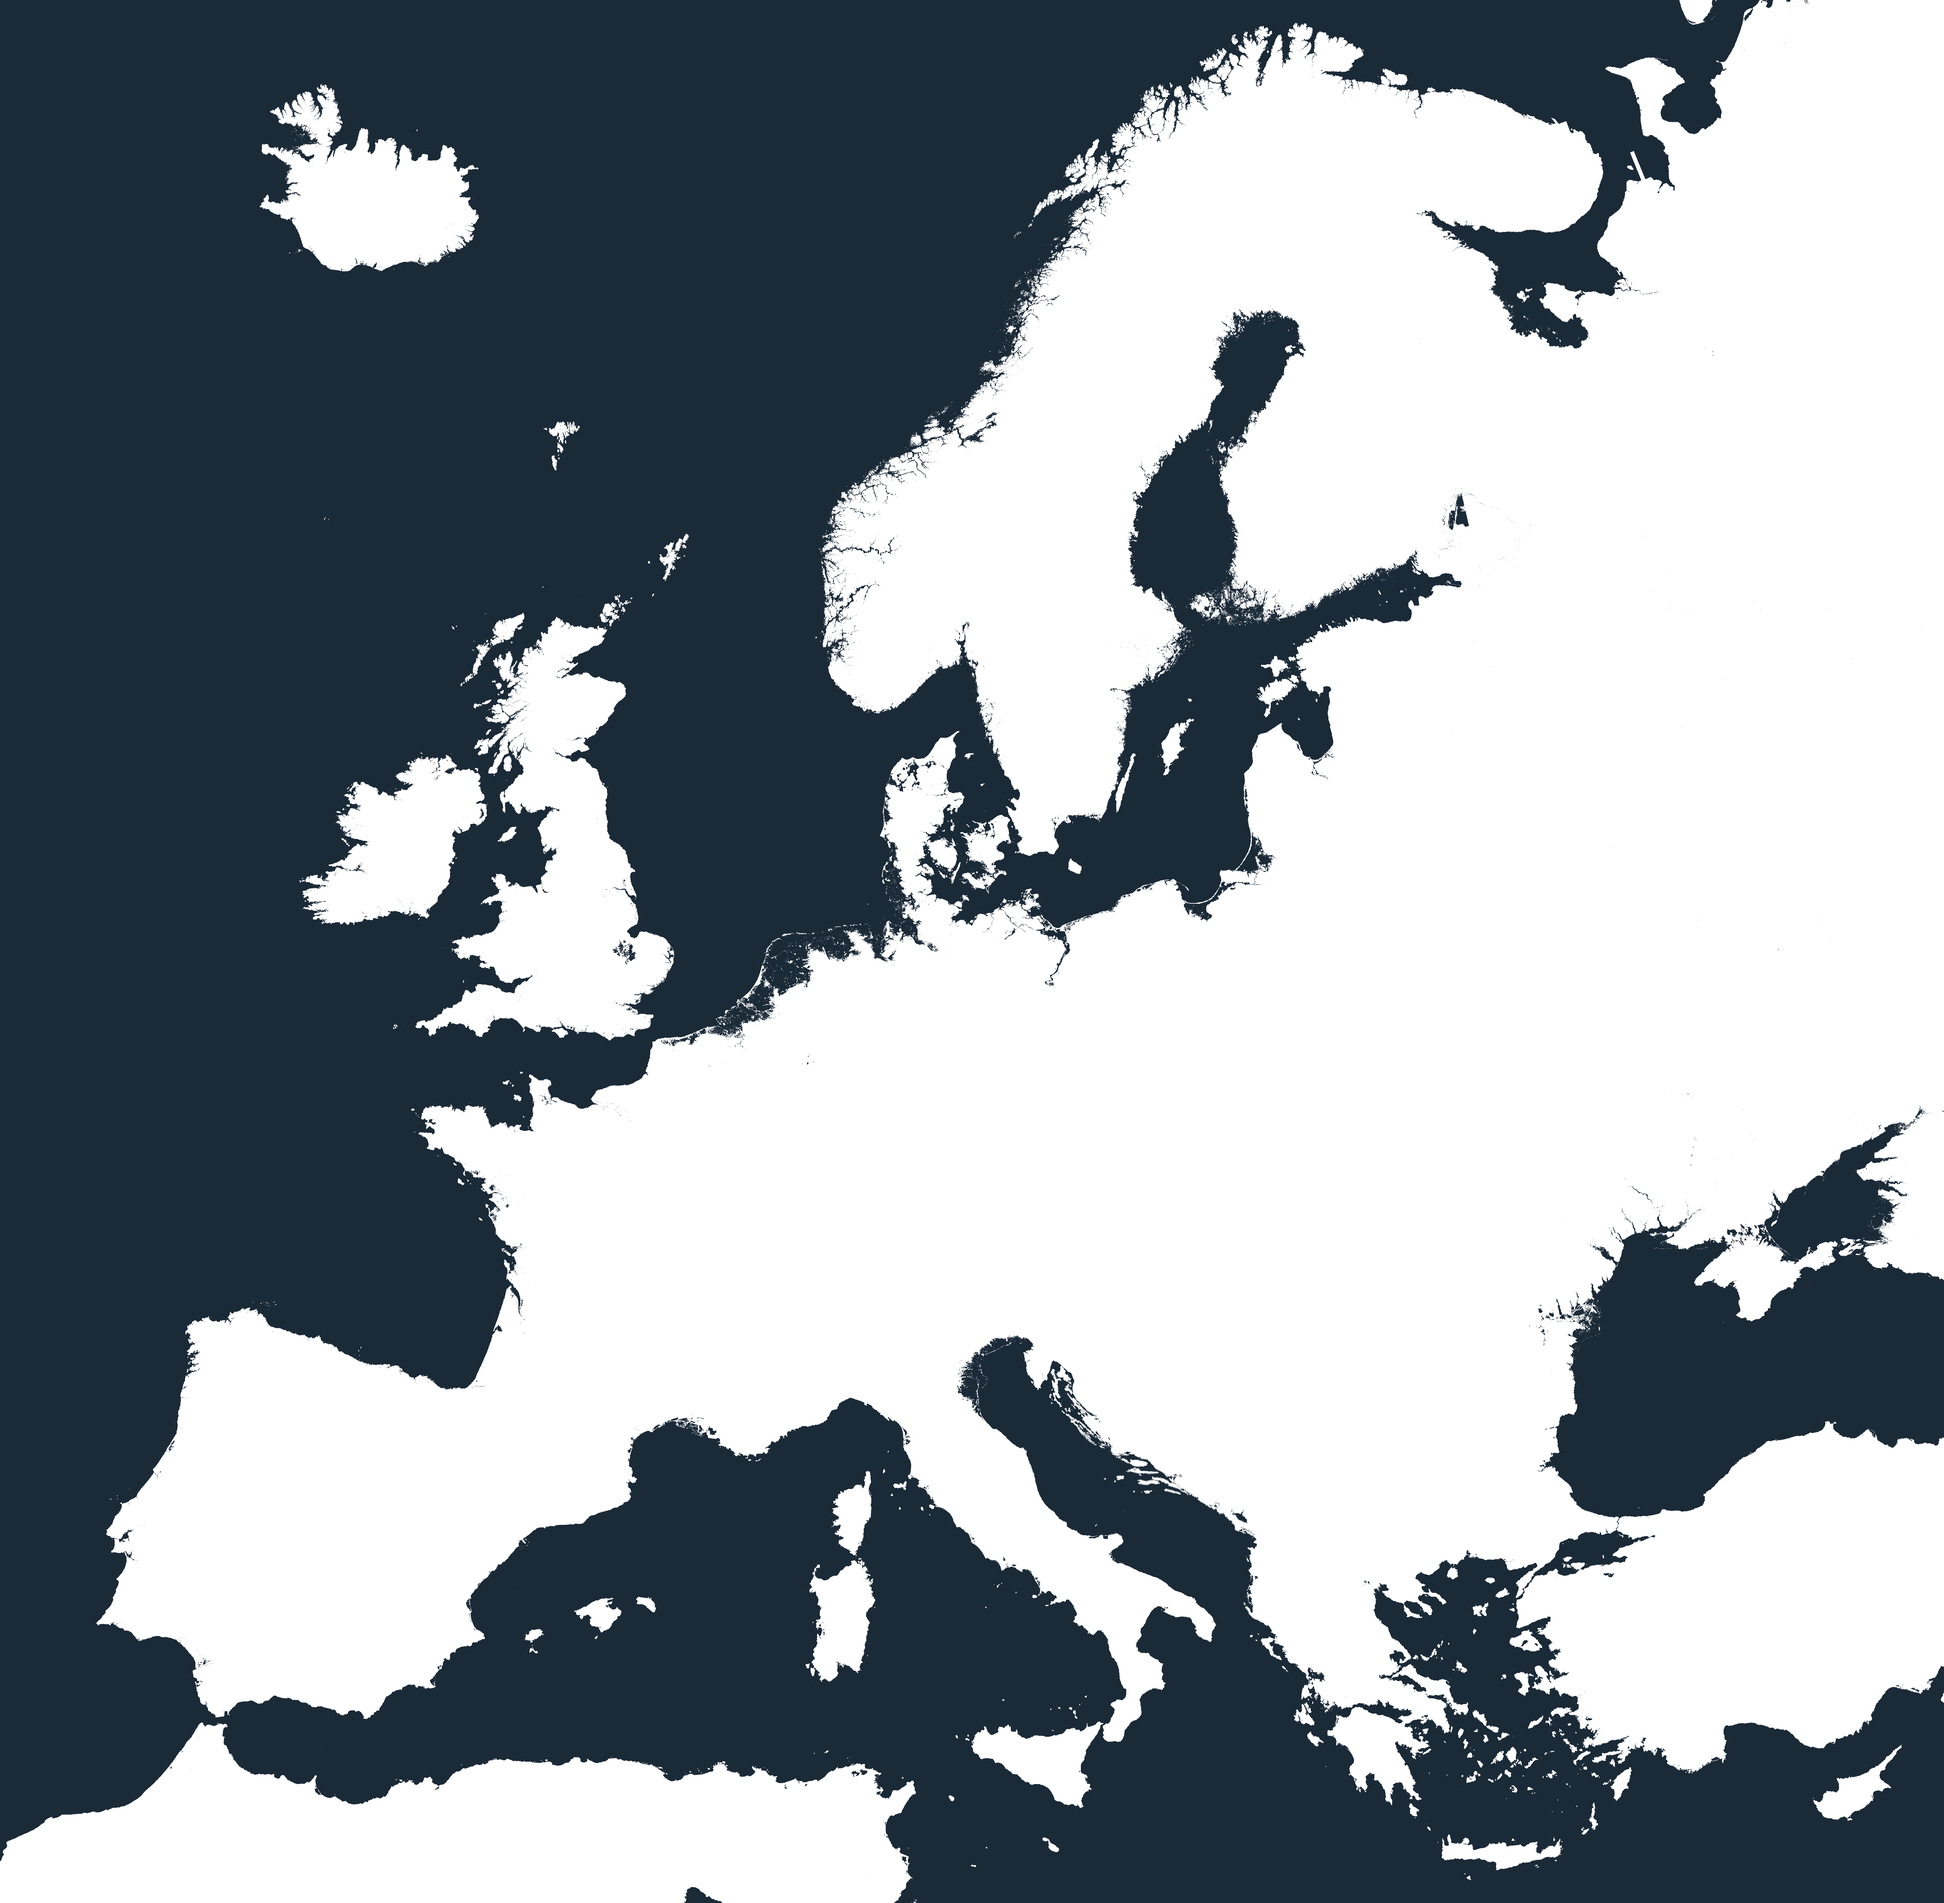
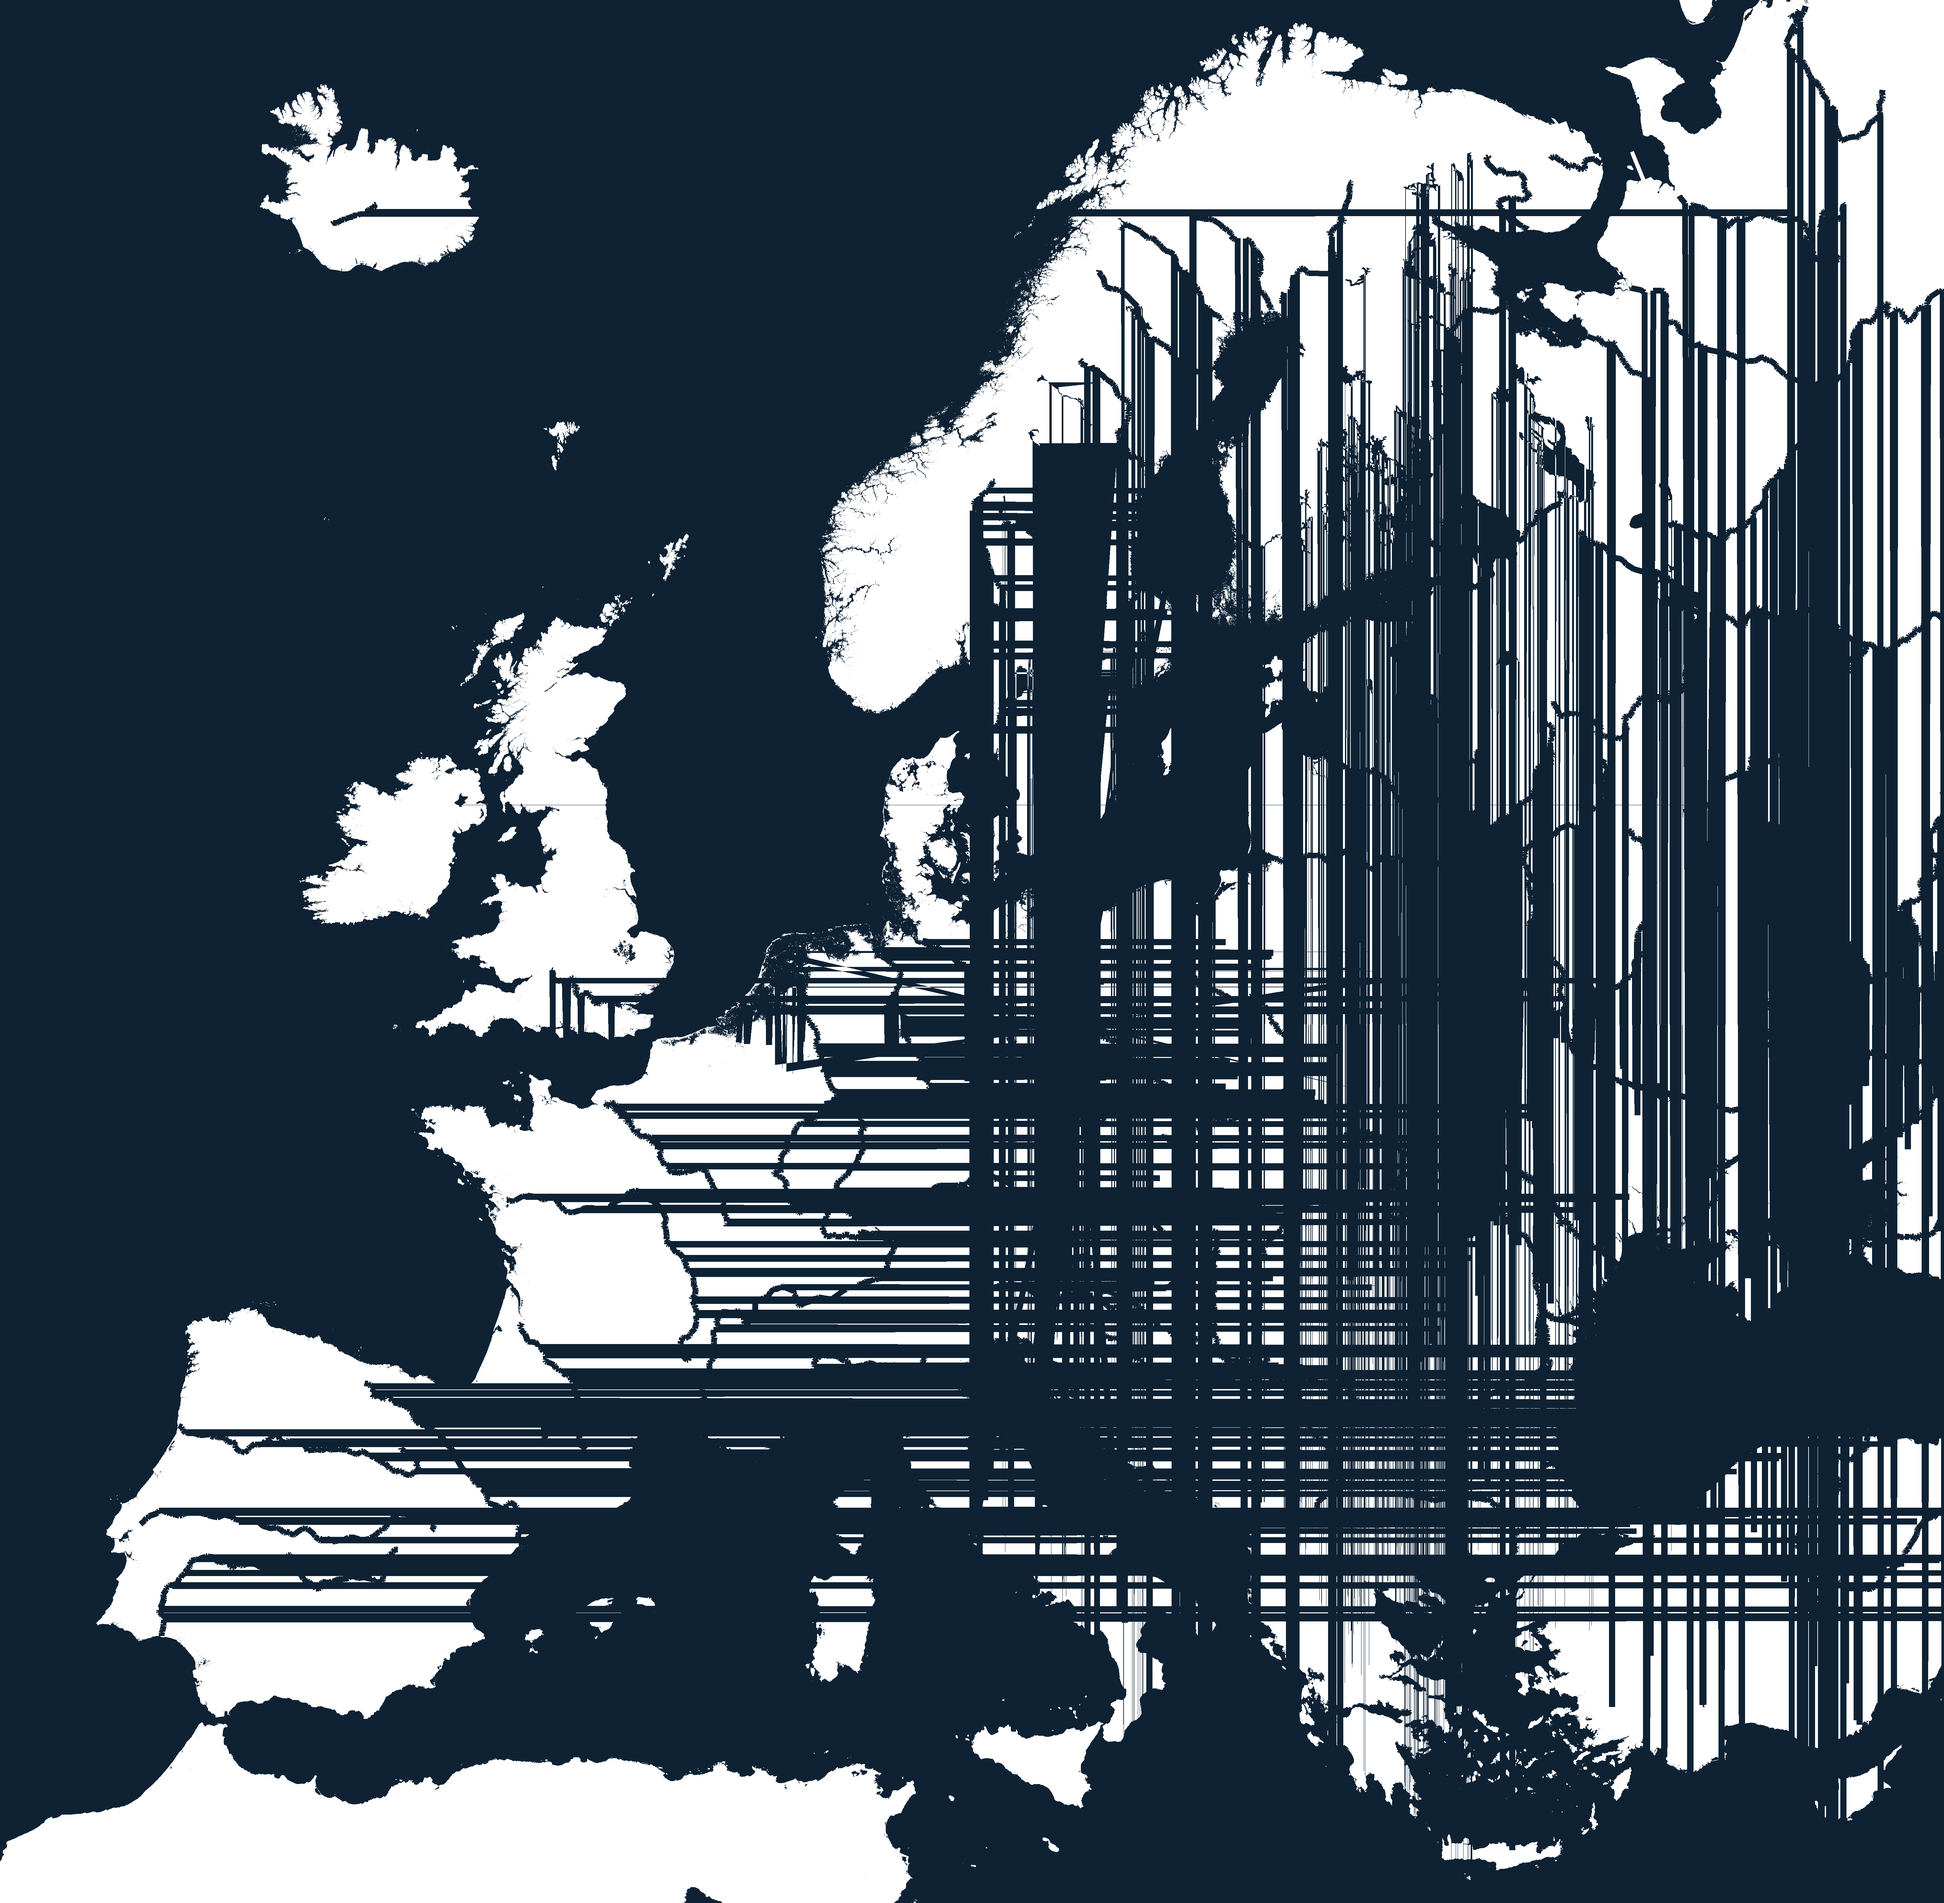
fix: split SVG river paths by M command to correctly rasterize all 236 river segments into water.webp

diff --git a/web/map/cartography-layer.js b/web/map/cartography-layer.js
@@ -1,7 +1,7 @@
 /**
  * Vector Cartography Canvas Renderer
- * High-performance, tactile cartographic rendering for ocean bathymetry, coastlines,
- * lakes, smooth tapered rivers, urban footprints, background towns, and road networks.
+ * High-performance, clean cartographic rendering for lakes, urban footprints,
+ * background towns, and road networks.
  */
 
 export class CartographyLayer {
@@ -46,58 +46,18 @@ export class CartographyLayer {
     const translateX = -camera.current.x * scaleX;
     const translateY = -camera.current.y * scaleY;
 
-    // 1. Water Bodies (Ocean Coastlines, Lakes, & Tapered River Networks)
+    // 1. Water Bodies (Shoreline Border Highlights & Lake Shading)
     if (this.showWater) {
       ctx.save();
       ctx.setTransform(scaleX * dpr, 0, 0, scaleY * dpr, translateX * dpr, translateY * dpr);
       ctx.globalAlpha = this.waterOpacity;
 
-      // A. Lake Polygon Fills & Depth Styling
-      if (g.lakes && g.lakes.length) {
-        // Core Lake Fill
-        ctx.fillStyle = theme.water || '#12283a';
+      // Lake Shoreline Border Highlights
+      if (this.showShoreline && g.lakes && g.lakes.length) {
+        ctx.strokeStyle = 'rgba(120, 190, 230, 0.40)';
+        ctx.lineWidth = 1.2 / scaleX;
         for (const lakePath of g.lakes) {
           const path = this.getPath2D(lakePath);
-          if (path) ctx.fill(path);
-        }
-
-        // Shoreline Highlight Ring
-        if (this.showShoreline) {
-          ctx.strokeStyle = 'rgba(120, 190, 230, 0.40)';
-          ctx.lineWidth = 1.2 / scaleX;
-          for (const lakePath of g.lakes) {
-            const path = this.getPath2D(lakePath);
-            if (path) ctx.stroke(path);
-          }
-        }
-      }
-
-      // B. River Network (Multi-tier tapered width pass for realistic flow)
-      if (g.rivers && g.rivers.length) {
-        ctx.lineCap = 'round';
-        ctx.lineJoin = 'round';
-
-        // Base Outer River Channel
-        ctx.strokeStyle = theme.water || '#12283a';
-        ctx.lineWidth = (3.2 * this.riverWidthScale) / scaleX;
-        for (const riverPath of g.rivers) {
-          const path = this.getPath2D(riverPath);
-          if (path) ctx.stroke(path);
-        }
-
-        // Inner Flow Core
-        ctx.strokeStyle = 'rgba(75, 155, 205, 0.75)';
-        ctx.lineWidth = (1.6 * this.riverWidthScale) / scaleX;
-        for (const riverPath of g.rivers) {
-          const path = this.getPath2D(riverPath);
-          if (path) ctx.stroke(path);
-        }
-
-        // Mountain Spring Highlight
-        ctx.strokeStyle = 'rgba(130, 210, 255, 0.45)';
-        ctx.lineWidth = (0.8 * this.riverWidthScale) / scaleX;
-        for (const riverPath of g.rivers) {
-          const path = this.getPath2D(riverPath);
           if (path) ctx.stroke(path);
         }
       }

diff --git a/scripts/10-water-raster.py b/scripts/10-water-raster.py
@@ -2,14 +2,14 @@
 
 Generates pixel-perfect raster water maps (`web/water.webp` and `web/water-detail.webp`)
 using the exact inverse Lambert Conformal Conic coordinate grid, DEM elevation matrix,
-and river corridor geometries.
+and 236 multi-segment river corridors and lakes.
 
   python3 scripts/10-water-raster.py
 """
 import concurrent.futures as futures
-import json, math, pathlib, urllib.request
+import json, math, pathlib, re, urllib.request
 import numpy as np
-from PIL import Image, ImageDraw
+from PIL import Image, ImageDraw, ImageFilter
 
 Image.MAX_IMAGE_PIXELS = None
 ROOT = pathlib.Path(__file__).resolve().parent.parent
@@ -133,41 +133,23 @@ def render_water(box, out_w, out_h):
     # Draw Lake Polygons
     if 'lakes' in raw_map:
         for lake_svg in raw_map['lakes']:
-            # Parse simple SVG path M...L...
-            cmd_pts = []
-            tokens = lake_svg.replace('M', ' ').replace('L', ' ').replace('Z', '').strip().split()
-            for tok in tokens:
-                parts = tok.split()
-                for p in parts:
-                    coords = p.split()
-                    if len(coords) == 2:
-                        try:
-                            mx, my = float(coords[0]), float(coords[1])
-                            cmd_pts.append(map_to_px(mx, my))
-                        except ValueError:
-                            pass
-            if len(cmd_pts) >= 3:
-                draw.polygon(cmd_pts, fill=255)
+            sub_paths = [p.strip() for p in lake_svg.split('M') if p.strip()]
+            for sub in sub_paths:
+                coords = re.findall(r'[-+]?\d*\.\d+|\d+', sub)
+                pts = [map_to_px(float(coords[i]), float(coords[i+1])) for i in range(0, len(coords)-1, 2)]
+                if len(pts) >= 3:
+                    draw.polygon(pts, fill=255)
 
-    # Draw River Channels with 2.5px to 5.0px width
+    # Draw River Channels (236 sub-segments)
     if 'rivers' in raw_map:
+        stroke_w = max(int(round(7.0 * (out_w / 2400.0))), 4)
         for river_svg in raw_map['rivers']:
-            pts = []
-            tokens = river_svg.replace('M', ' ').replace('L', ' ').replace('Z', '').split()
-            for tok in tokens:
-                sub = tok.strip()
-                if not sub: continue
-                # Match numbers
-                import re
-                nums = re.findall(r'[-+]?\d*\.\d+|\d+', sub)
-                if len(nums) >= 2:
-                    for i in range(0, len(nums) - 1, 2):
-                        mx, my = float(nums[i]), float(nums[i+1])
-                        pts.append(map_to_px(mx, my))
-
-            if len(pts) >= 2:
-                stroke_w = max(int(round(3.0 * (out_w / 2400.0))), 2)
-                draw.line(pts, fill=255, width=stroke_w)
+            sub_paths = [p.strip() for p in river_svg.split('M') if p.strip()]
+            for sub in sub_paths:
+                coords = re.findall(r'[-+]?\d*\.\d+|\d+', sub)
+                pts = [map_to_px(float(coords[i]), float(coords[i+1])) for i in range(0, len(coords)-1, 2)]
+                if len(pts) >= 2:
+                    draw.line(pts, fill=255, width=stroke_w)
 
     river_lake_arr = np.asarray(overlay, dtype=np.float32) / 255.0
 
@@ -175,12 +157,12 @@ def render_water(box, out_w, out_h):
     combined_water = np.clip(ocean_mask.astype(np.float32) + river_lake_arr, 0, 1)
 
     # 4. Generate RGBA Water Image
-    # Deep Midnight Ocean Blue: RGB(14, 29, 43)
+    # Deep Midnight Ocean & River Blue: RGB(14, 34, 52)
     rgba = np.zeros((out_h, out_w, 4), dtype=np.uint8)
     rgba[..., 0] = 14  # Red
-    rgba[..., 1] = 29  # Green
-    rgba[..., 2] = 43  # Blue
-    rgba[..., 3] = (combined_water * 240.0).astype(np.uint8)
+    rgba[..., 1] = 34  # Green
+    rgba[..., 2] = 52  # Blue
+    rgba[..., 3] = (combined_water * 255.0).astype(np.uint8)
 
     return rgba
 
